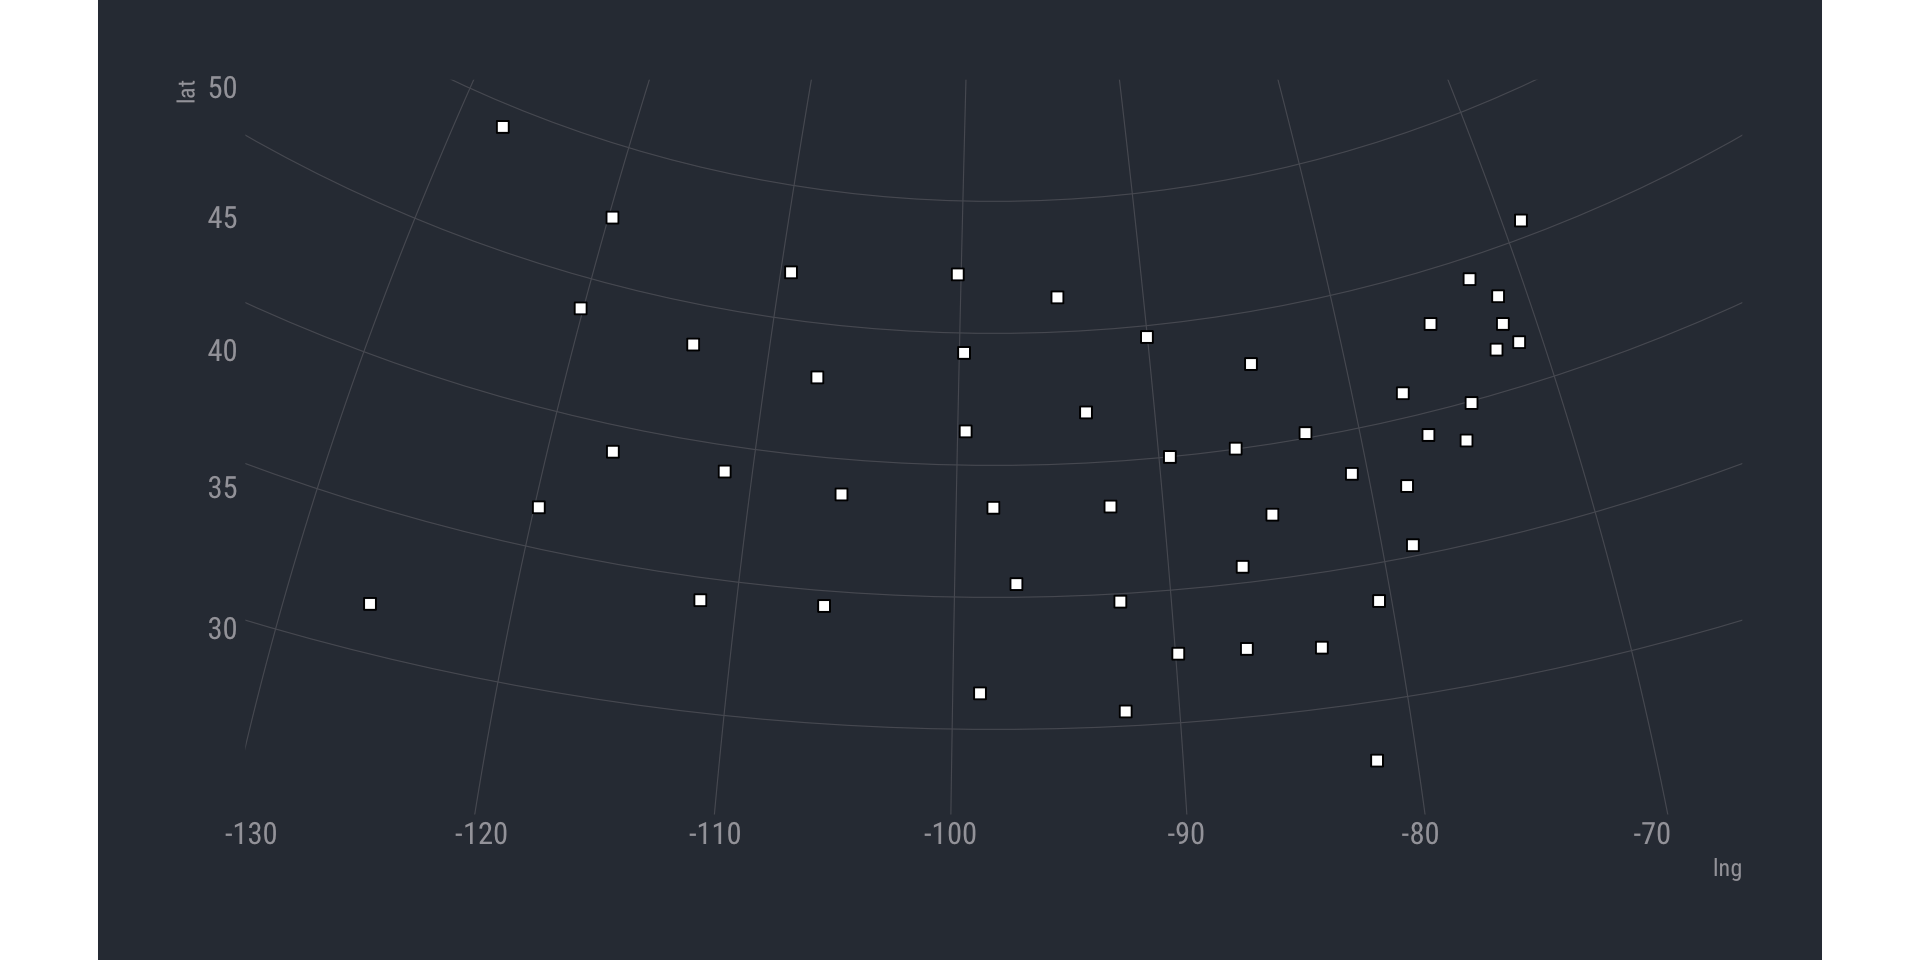
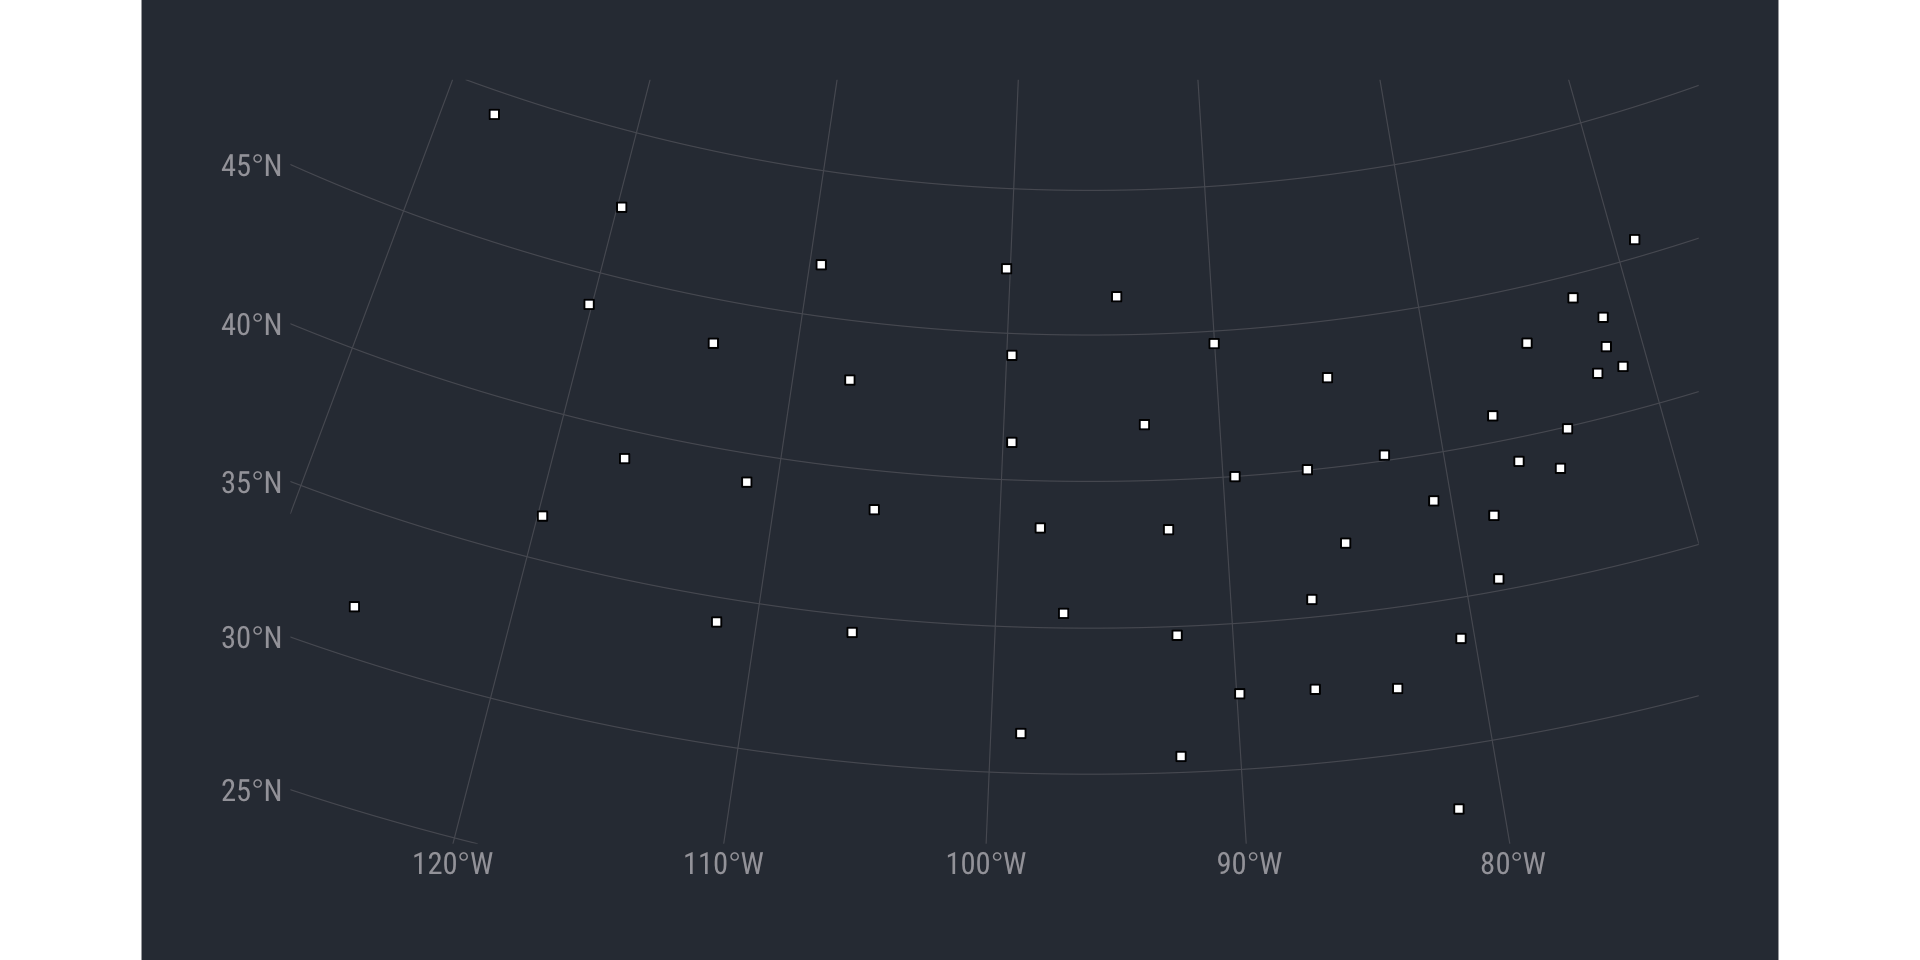
chore: update NEWS

diff --git a/README.md b/README.md
@@ -157,20 +157,29 @@ sample_dta |>
   dplyr::mutate(
     x = lapply(mgrs, mgrs_to_latlng, include_mgrs_ref = FALSE)
   ) |>
-  tidyr::unnest(x)
-## # A tibble: 50 × 4
-##       id mgrs      lat    lng
-##    <int> <chr>   <dbl>  <dbl>
-##  1     1 16SEB20  32.5  -86.8
-##  2     2 09UXQ25  49.2 -127. 
-##  3     3 12SVC48  34.2 -112. 
-##  4     4 15SWU64  34.7  -92.3
-##  5     5 11SKA54  36.5 -120. 
-##  6     6 13SDC58  38.7 -106. 
-##  7     7 18TYM20  41.5  -72.4
-##  8     8 18SWH08  38.7  -75.0
-##  9     9 17RML38  27.8  -81.7
-## 10    10 17SKR77  32.2  -83.4
+  tidyr::unnest(x) |> 
+  sf::st_as_sf(
+    coords = c("lng", "lat"),
+    crs = 4326
+  )
+## Simple feature collection with 50 features and 2 fields
+## Geometry type: POINT
+## Dimension:     XY
+## Bounding box:  xmin: -127.353 ymin: 27.84288 xmax: -69 ymax: 49.19105
+## Geodetic CRS:  WGS 84
+## # A tibble: 50 × 3
+##       id mgrs                geometry
+##  * <int> <chr>            <POINT [°]>
+##  1     1 16SEB20 (-86.78701 32.53717)
+##  2     2 09UXQ25  (-127.353 49.19105)
+##  3     3 12SVC48 (-111.6509 34.15921)
+##  4     4 15SWU64 (-92.34486 34.70027)
+##  5     5 11SKA54  (-119.7903 36.4727)
+##  6     6 13SDC58 (-105.5747 38.66717)
+##  7     7 18TYM20 (-72.36334 41.52143)
+##  8     8 18SWH08       (-75 38.66858)
+##  9     9 17RML38  (-81.7109 27.84288)
+## 10    10 17SKR77 (-83.44116 32.24313)
 ## # ℹ 40 more rows
 ```
 
@@ -178,6 +187,7 @@ sample_dta |>
 
 ``` r
 library(ggplot2)
+library(sf)
 
 # precision == 1
 
@@ -191,12 +201,23 @@ c(
   "10TGP36", "18TTL93", "19TCG20", "17SNT42", "14TMQ40", "16SEE44", 
   "14RNV27", "12SVJ72", "18TXQ90", "17SQB46", "11TKN95", "17SNC25", 
   "16TBQ64", "13TCH16"
-) -> mgrs_state_centers
+) -> mgrs_conus_state_centers
 
-mgrs_to_latlng(mgrs_state_centers) |>
-  ggplot(aes(lng, lat)) +
-  geom_point(shape=22, size=2, color="black", fill="white") +
-  coord_map("polyconic") +
+mgrs_conus_state_centers |> 
+  mgrs_to_latlng() |>
+  st_as_sf(
+    coords = c("lng", "lat"),
+    crs = 4326
+  ) |> 
+  ggplot() +
+  geom_sf(
+    shape = 22,
+    ize = 2, color = "black", 
+    fill = "white"
+  ) +
+  coord_sf(
+    crs = 5070
+  ) +
   theme_ft_rc(grid="XY")
 ```
 

diff --git a/NEWS.md b/NEWS.md
@@ -1,10 +1,18 @@
+0.2.4
+
+* Bump R dep to 4.x
+* Remove {magrittr} dep
+* Replace {testthat} with {tinytest}
+* Switch to Quarto for README
+* Update README examples to include {sf} work
+
 0.2.2
 
-* Fixes #5
+* Fixes GH #5
 
 0.2.0
 
-* Added `mgrs_area()` (completes #1)
+* Added `mgrs_area()` (completes GH #1)
 * Changed to MIT license
 * Added COPYRIGHTS info
 * Modified DESCRIPTION Description
@@ -12,7 +20,7 @@
 * Vectorized remaining data frame return functions
 * Added @gl-smith to DESCRIPTION
 * Added `include_mgrs_ref` logical parameter to `mgrs_to_latlng()`
-  to support #2
+  to support GH #2
 
 0.1.1
 
